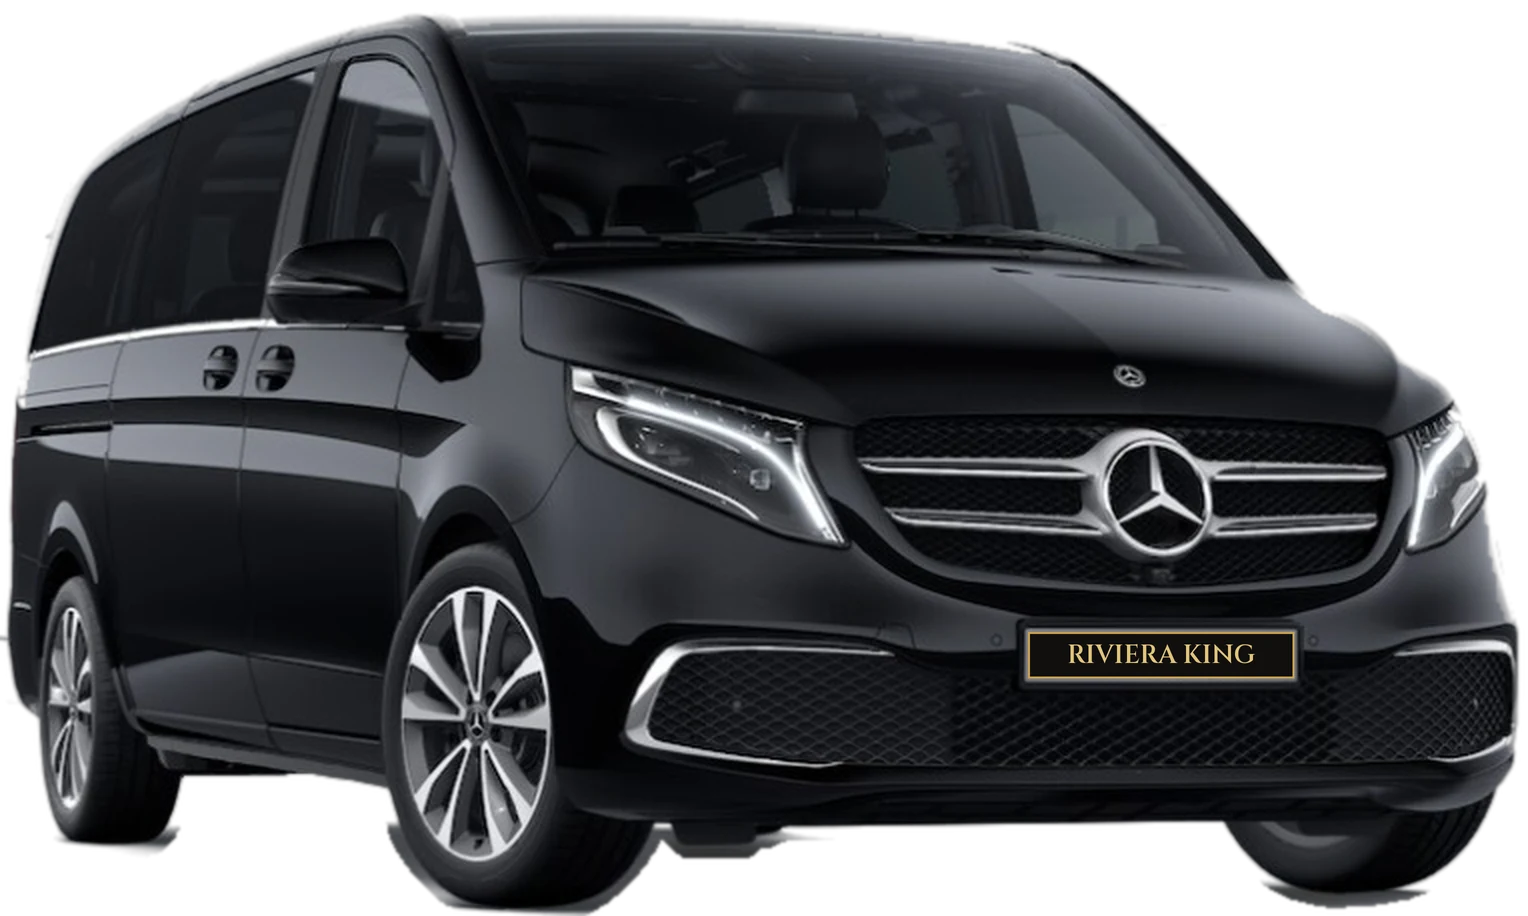
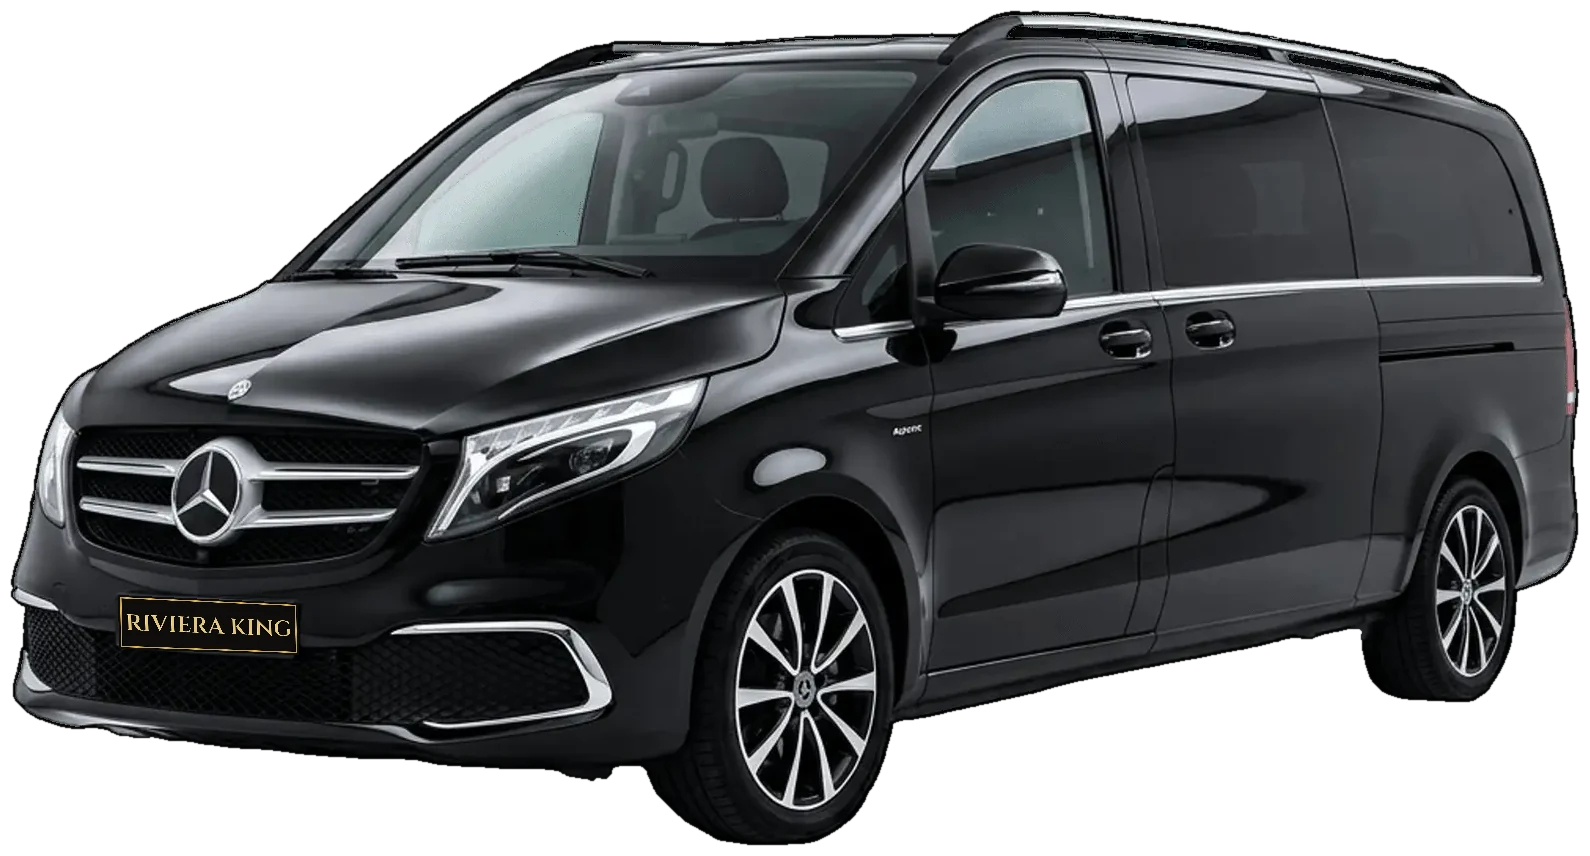
Nouvelle photo du Classe V detouree HD + plaque Riviera King

diff --git a/index.html b/index.html
@@ -272,8 +272,8 @@ footer{border-top:1px solid var(--line);padding-block:80px 40px;background:#0505
   <span class="stars"><svg width="12" height="12"><use href="#star"/></svg><svg width="17" height="17"><use href="#star"/></svg><svg width="12" height="12"><use href="#star"/></svg></span>
   <h1>Chauffeur privé · Van VIP · Côte d'Azur</h1>
   <div class="car" id="car">
-   <img src="van.webp" width="1528" height="916" alt="Mercedes Classe V noir de Riviera King Drive, van VIP avec chauffeur sur la Côte d'Azur" fetchpriority="high">
-   <img class="reflect" src="van.webp" width="1528" height="916" alt="" aria-hidden="true">
+   <img src="van.webp" width="1590" height="856" alt="Mercedes Classe V noir de Riviera King Drive, van VIP avec chauffeur sur la Côte d'Azur" fetchpriority="high">
+   <img class="reflect" src="van.webp" width="1590" height="856" alt="" aria-hidden="true">
   </div>
   <p class="claim">Le trajet devient <span class="gold">une première classe.</span></p>
   <div class="ctas">
@@ -346,12 +346,12 @@ footer{border-top:1px solid var(--line);padding-block:80px 40px;background:#0505
    <p>La référence du transport VIP. Un salon roulant pour sept passagers, silencieux et spacieux, préparé avant chaque course. Survolez les repères pour découvrir l'équipement.</p>
   </div>
   <div class="showcase rv">
-   <img src="van.webp" width="1528" height="916" alt="Mercedes Classe V Riviera King Drive, vue avant trois quarts" loading="lazy">
-   <button class="pin" style="left:20%;top:32%" type="button" aria-label="Vitres arrière teintées"><span class="tip"><b>VITRES TEINTÉES</b>Discrétion totale à l'arrière, climatisation indépendante.</span></button>
-   <button class="pin" style="left:58%;top:22%" type="button" aria-label="Salon cuir"><span class="tip"><b>SALON CUIR</b>Sièges face à face, table centrale, espace pour les jambes.</span></button>
-   <button class="pin" style="left:46%;top:48%" type="button" aria-label="Phares LED"><span class="tip"><b>CONDUITE DE NUIT</b>Phares LED adaptatifs, aides à la conduite de dernière génération.</span></button>
-   <button class="pin" style="left:30%;top:80%" type="button" aria-label="Wi-Fi et confort"><span class="tip"><b>À BORD</b>Wi-Fi, chargeurs USB, eau fraîche, siège enfant sur demande.</span></button>
-   <button class="pin" style="left:38%;top:30%" type="button" aria-label="Chauffeur"><span class="tip"><b>VOTRE CHAUFFEUR</b>Professionnel, en costume, bilingue français-anglais.</span></button>
+   <img src="van.webp" width="1590" height="856" alt="Mercedes Classe V Riviera King Drive, vue avant trois quarts" loading="lazy">
+   <button class="pin" style="left:80%;top:26%" type="button" aria-label="Vitres arrière teintées"><span class="tip"><b>VITRES TEINTÉES</b>Discrétion totale à l'arrière, climatisation indépendante.</span></button>
+   <button class="pin" style="left:47%;top:22%" type="button" aria-label="Salon cuir"><span class="tip"><b>SALON CUIR</b>Sièges face à face, table centrale, espace pour les jambes.</span></button>
+   <button class="pin" style="left:34%;top:56%" type="button" aria-label="Phares LED"><span class="tip"><b>CONDUITE DE NUIT</b>Phares LED adaptatifs, aides à la conduite de dernière génération.</span></button>
+   <button class="pin" style="left:68%;top:52%" type="button" aria-label="Wi-Fi et confort"><span class="tip"><b>À BORD</b>Wi-Fi, chargeurs USB, eau fraîche, siège enfant sur demande.</span></button>
+   <button class="pin" style="left:62%;top:27%" type="button" aria-label="Chauffeur"><span class="tip"><b>VOTRE CHAUFFEUR</b>Professionnel, en costume, bilingue français-anglais.</span></button>
   </div>
   <div class="specs rv">
    <div><b>7</b><span>passagers</span></div>
